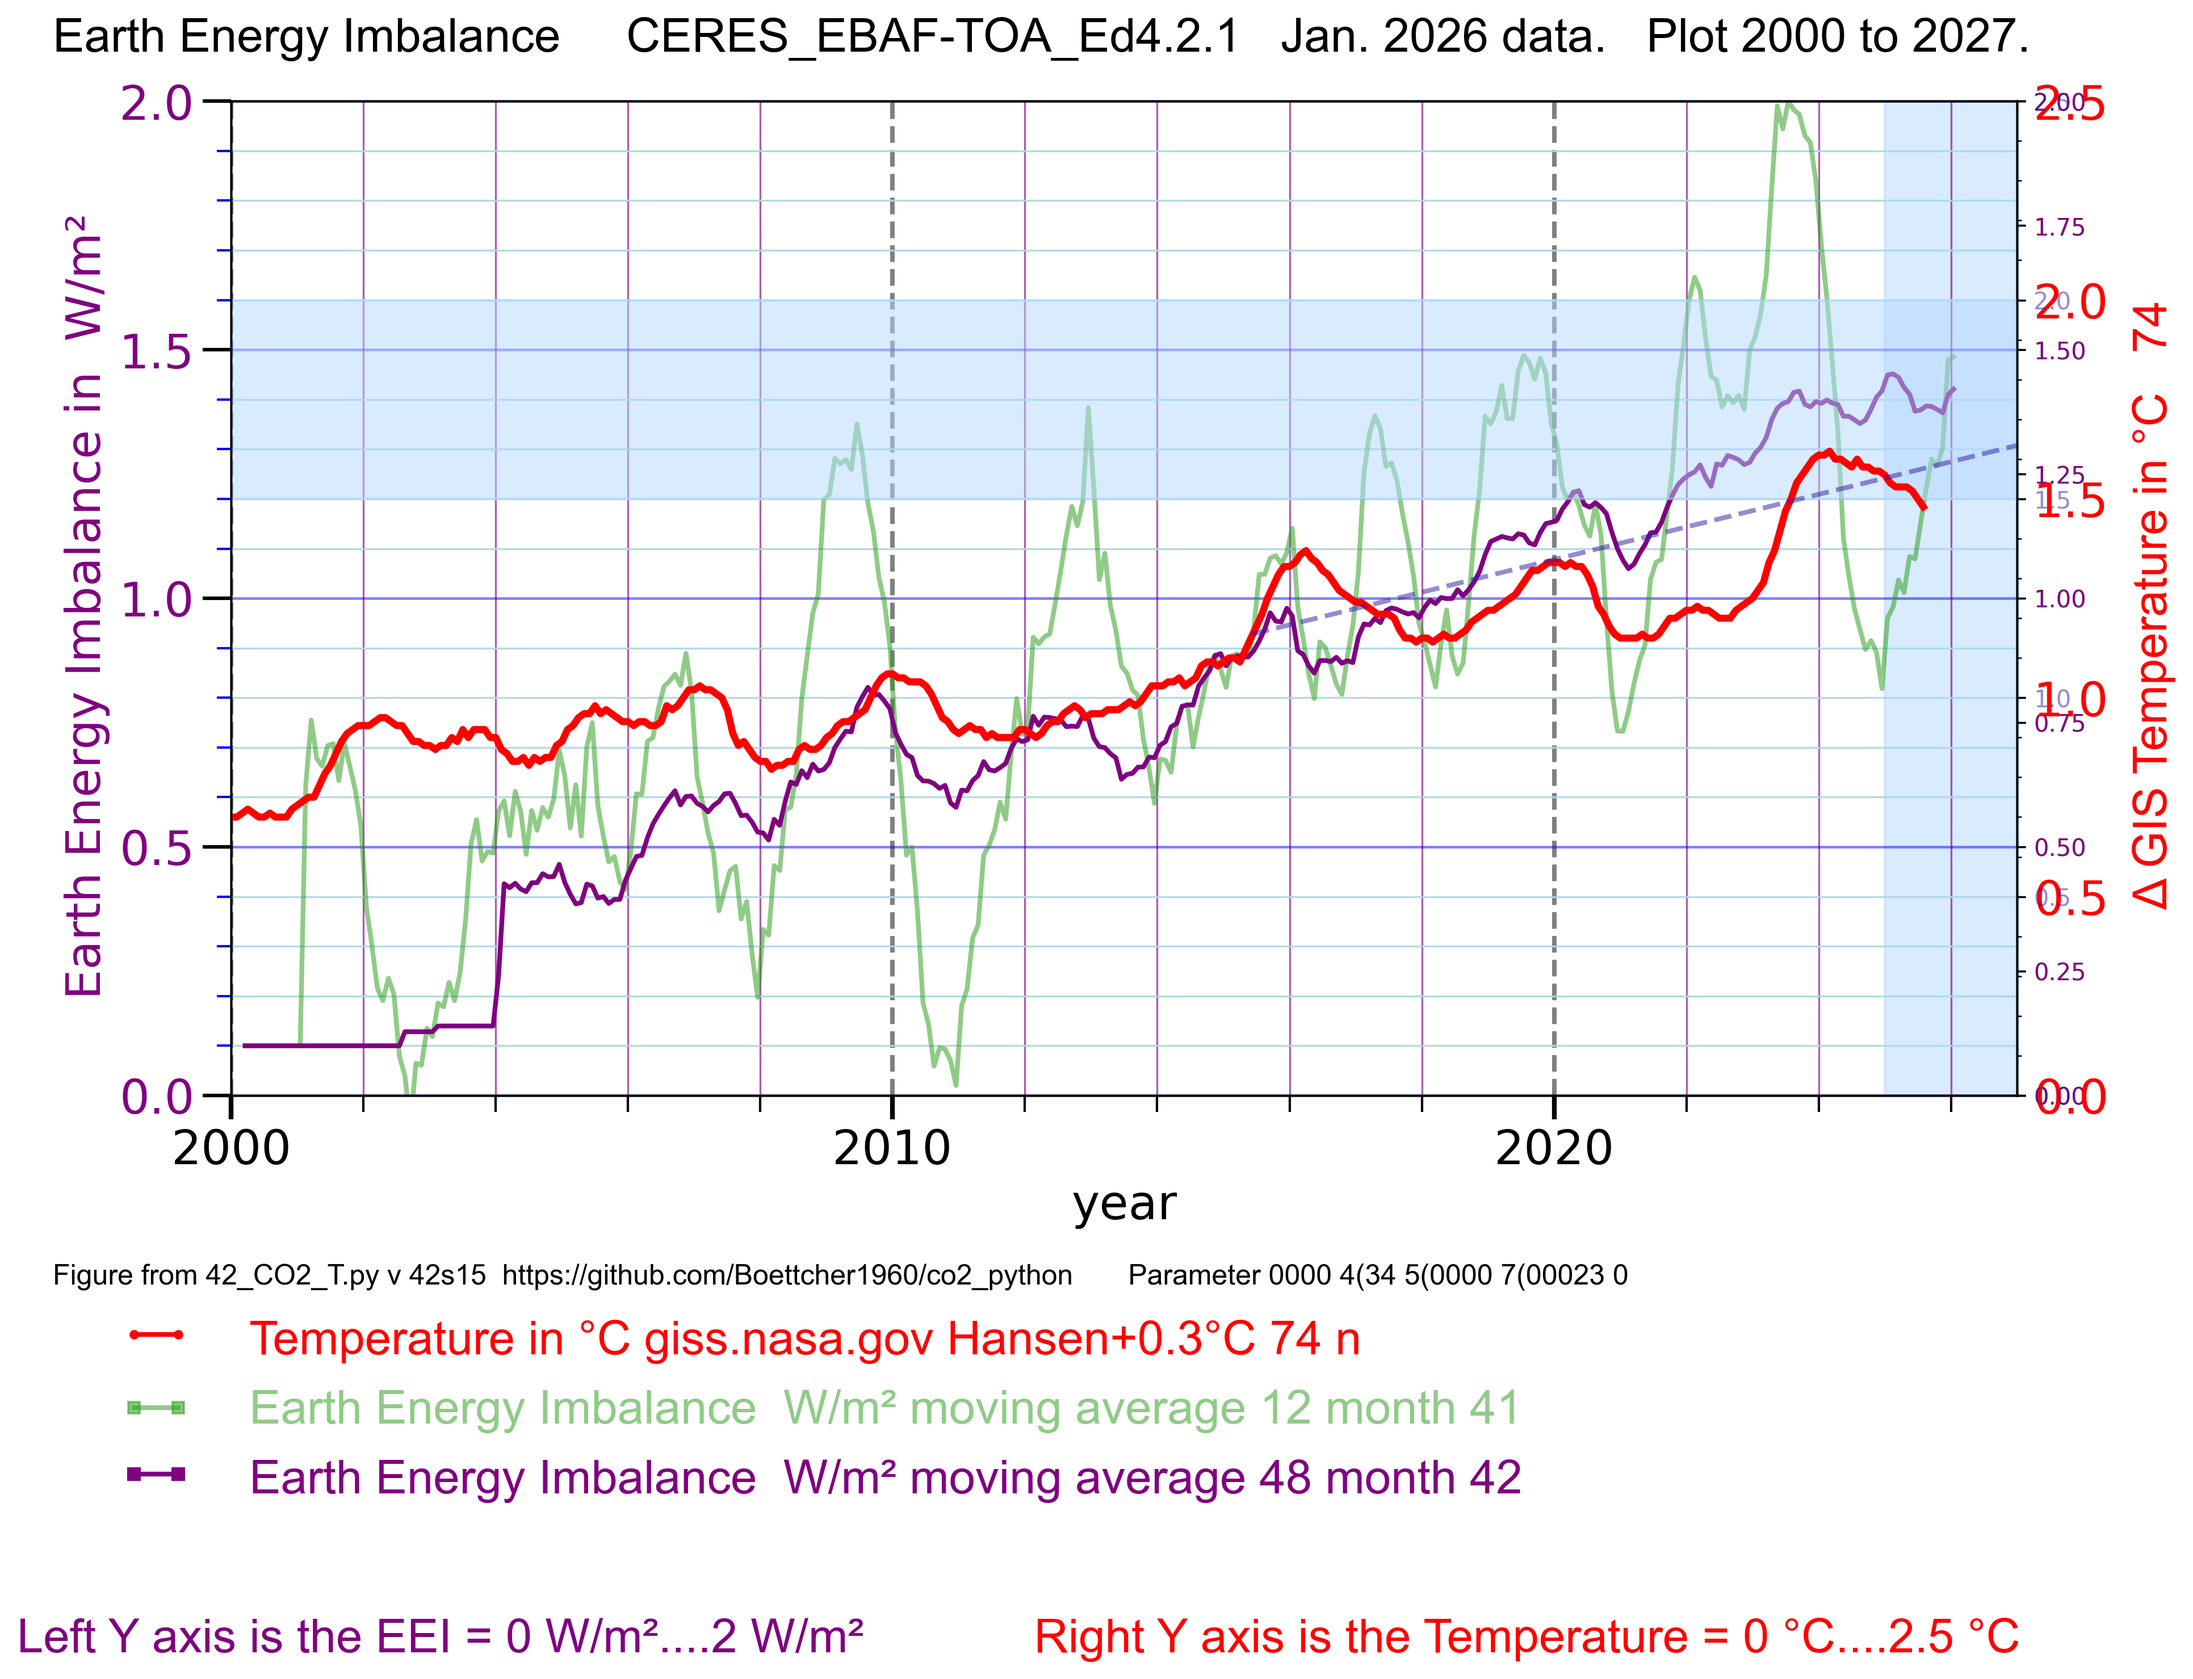
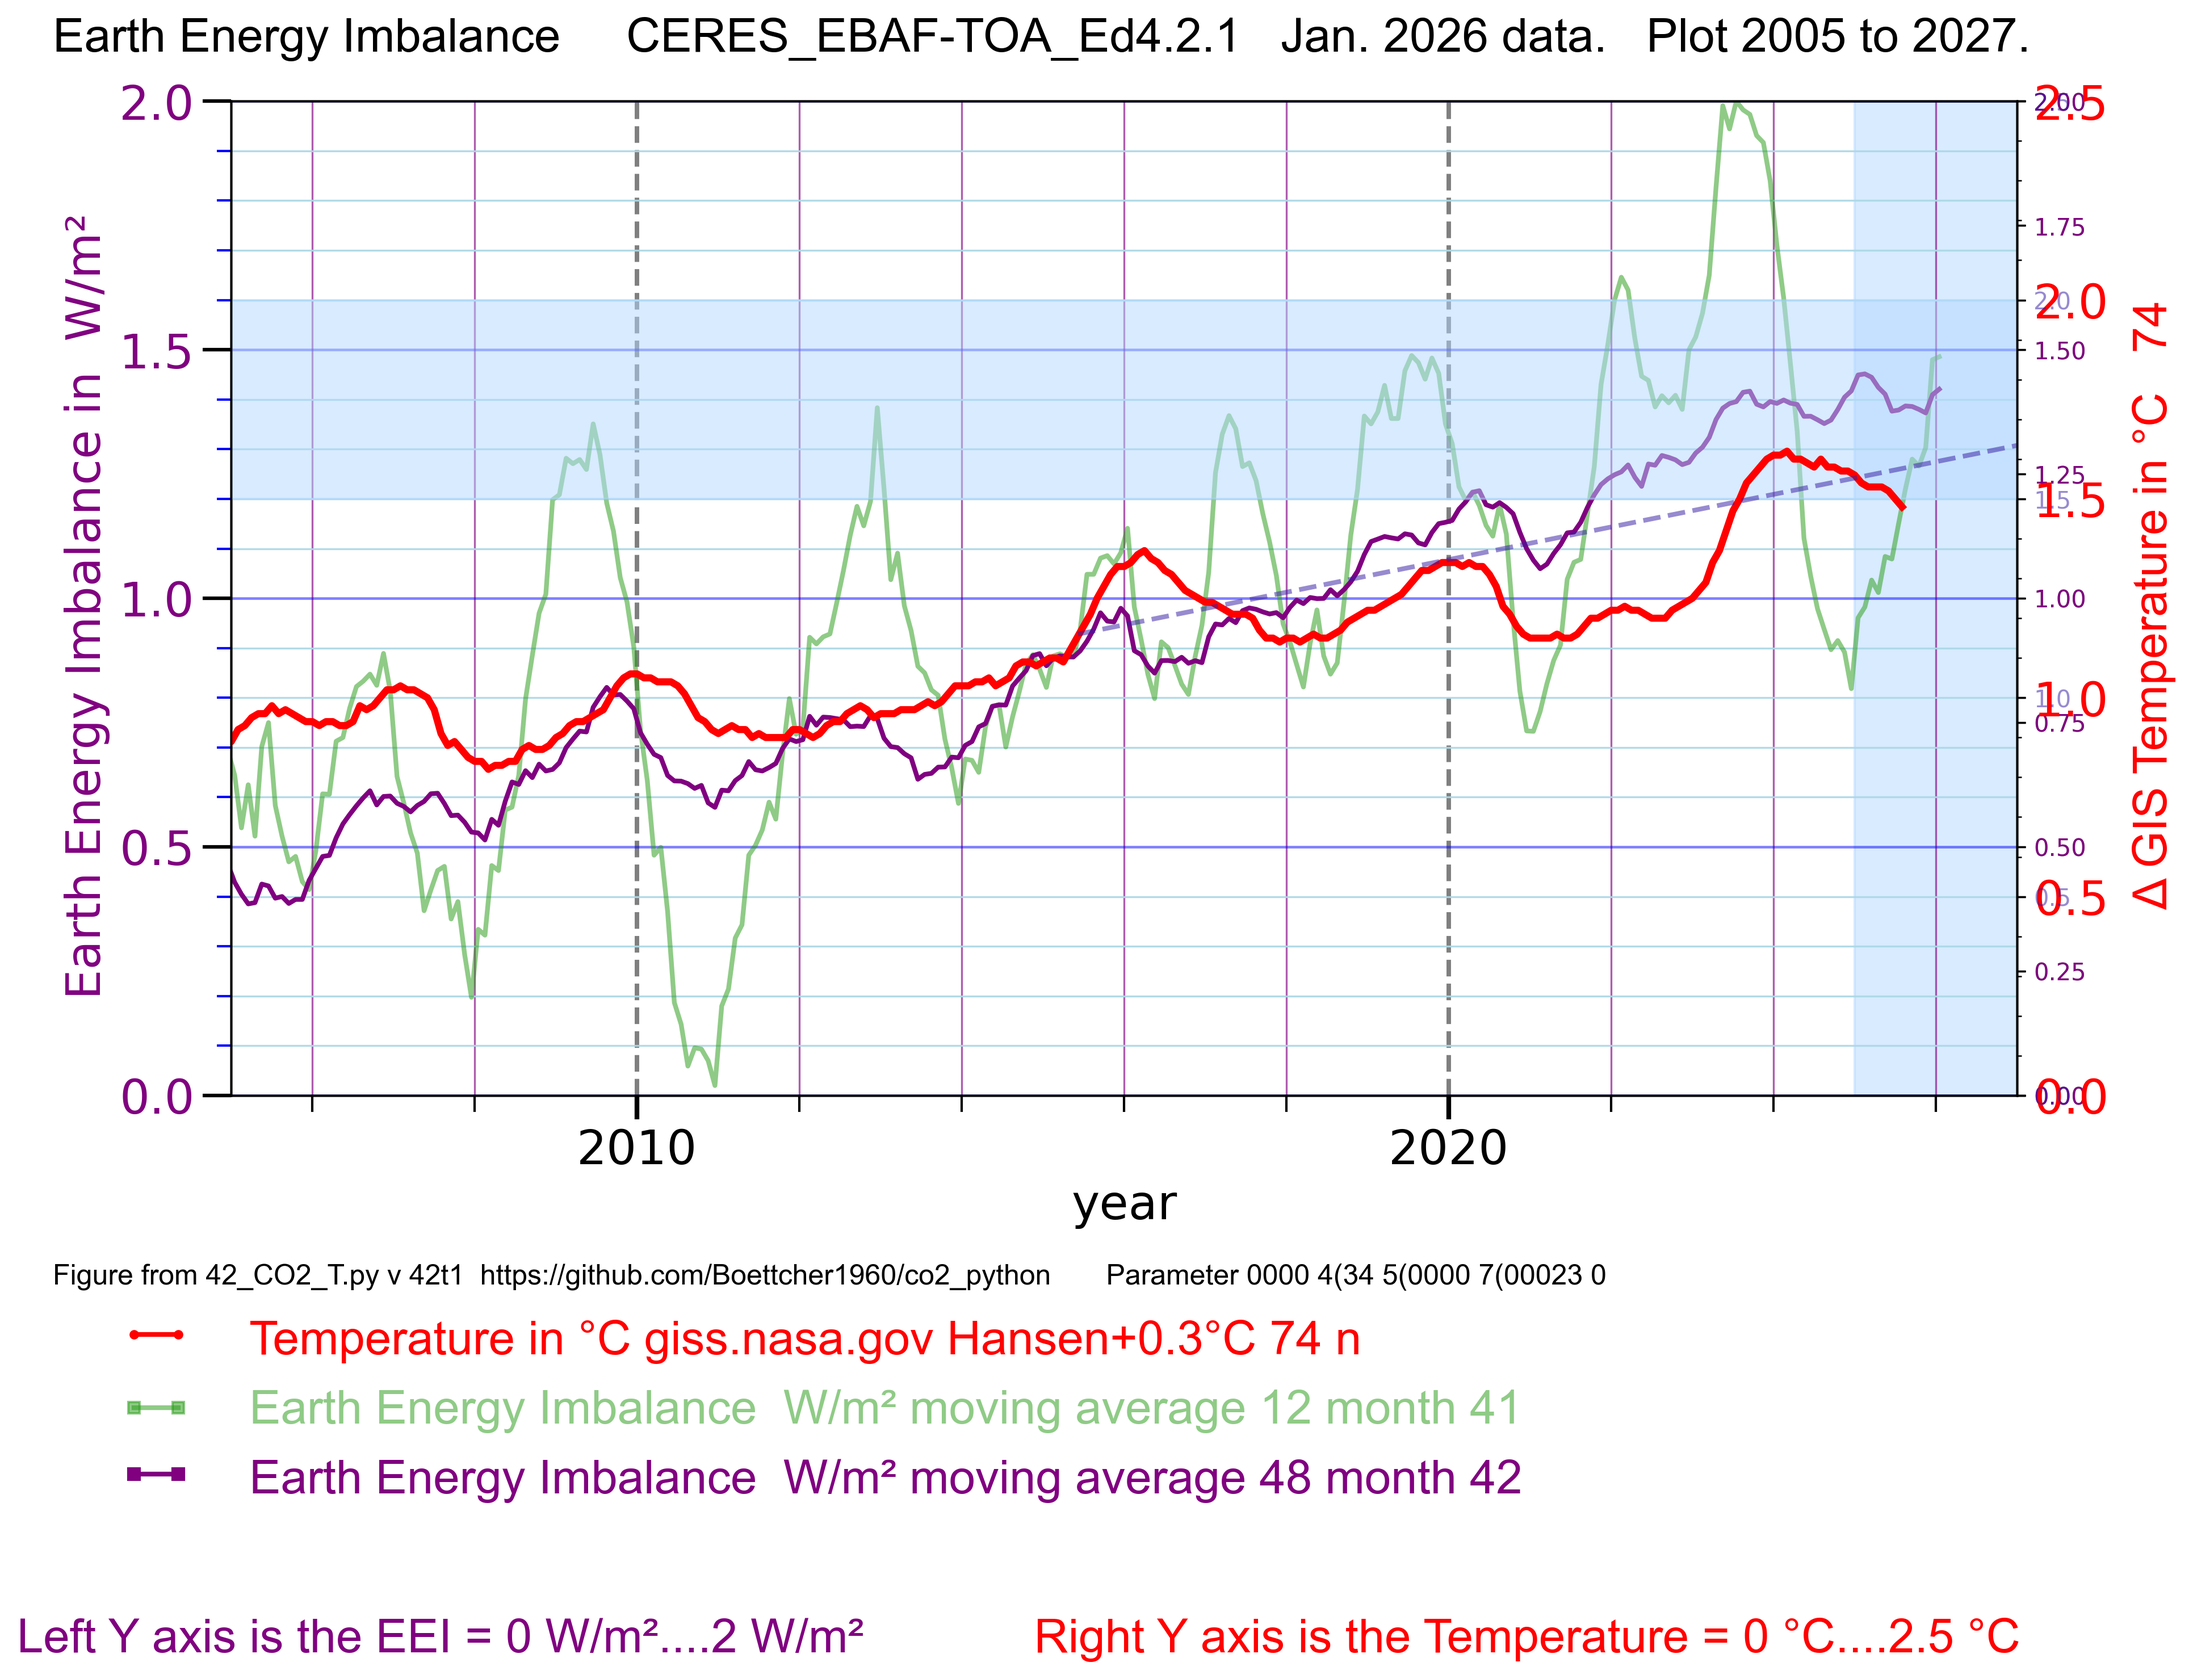
v = "42t1" #  50ok, csv41g12_ceres.csv

diff --git a/42_CO2_T.py b/42_CO2_T.py
@@ -1,5 +1,5 @@
 # 42_CO2_T.py 
-v = "42s15" #  50ok, csv41g12_ceres.csv
+v = "42t1" #  50ok, csv41g12_ceres.csv
 # Thomas Boettcher
 # part 1 configure 
 # part 2.2 plot CO2 Mauna Loa
@@ -116,7 +116,7 @@ y_Tmax = 2.5 # 1.6 4 # max value C
 y_Emin = 0 # min value W/m² 
 y_Emax = 2 # 1.6 4 # max value  W/m² 
 
-x_anf = 2000 # 1960 2000 -33000
+x_anf = 2005 # 1960 2000 -33000
 x_end = 2027 # 2200 2026 
 
 # 1.4.5 scale the text rows below the plot field
